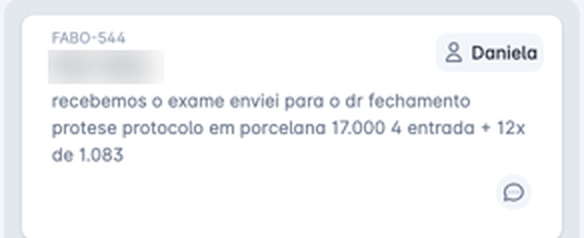
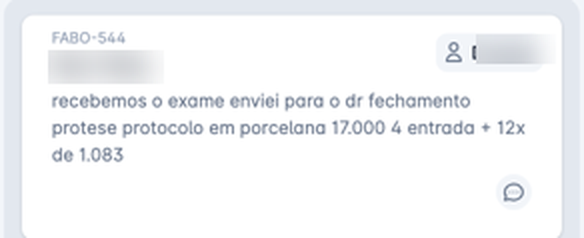
Borra nome do atendente no print e ajusta valor de entrada na prova social
Claude-Session: https://claude.ai/code/session_011CG8pHiGujnDZAfMSFqJd2

Changed region(s): [[0.8014, 0.1765, 0.9247, 0.2941]]

diff --git a/funil-dentista/index.html b/funil-dentista/index.html
@@ -138,7 +138,7 @@ var steps=[
      {n:"03",title:"Plataforma de gestão",text:"Leads com follow-up automático, sem precisar lembrar de ninguém."},
      {n:"04",title:"Equipe treinada",text:"Metodologia própria pra extrair o máximo de cada oportunidade."}
    ],
-   proof:{tag:"Ganho",name:"M. M.",detail:"Fechamento: protocolo protese em porcelana, entrada + 12x de R$ 1.083",valueLabel:"Negociação conduzida direto pelo WhatsApp, via Manu.ia",shot:"assets/prova-social.png"},
+   proof:{tag:"Ganho",name:"M. M.",detail:"Fechamento: protocolo protese em porcelana, entrada de R$ 4.000 + 12x de R$ 1.083",valueLabel:"Negociação conduzida direto pelo WhatsApp, via Manu.ia",shot:"assets/prova-social.png"},
    formTitle:"Pra onde enviamos sua análise gratuita?",
    fields:[{k:"nome",label:"Seu nome"},{k:"whatsapp",label:"WhatsApp (com DDD)"},{k:"cidade",label:"Cidade / Estado"}],
    cta:"Quero minha análise gratuita"},
